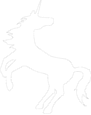
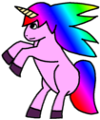
version 0.5

diff --git a/data/main.py b/data/main.py
@@ -17,12 +17,12 @@ def main(screen, player, screen_width, screen_height, player_rect):
 	life = pygame.image.load('life.png')
 	lifes = 3
 
-	life_one = (5, 50)
-	life_two = (35, 50)
-	life_three = (65, 50)
+	life_one = ((screen_width / 2 - life.get_size()[0]) - 10, 10)
+	life_two = ((screen_width / 2), 10)
+	life_three = ((screen_width / 2 + life.get_size()[0]) + 10, 10)
 
 	donut_event = pygame.USEREVENT+1
-	pygame.time.set_timer(donut_event, 2000)
+	pygame.time.set_timer(donut_event, 1000)
 
 	new_donuts = []
 
@@ -33,7 +33,6 @@ def main(screen, player, screen_width, screen_height, player_rect):
 	pygame.time.set_timer(draw_event, 15)
 
 	enemy_event = pygame.USEREVENT+4
-	pygame.time.set_timer(enemy_event, 2500)
 
 	new_enemys = []
 
@@ -42,17 +41,30 @@ def main(screen, player, screen_width, screen_height, player_rect):
 
 	game = 1
 
+	life_event = pygame.USEREVENT+6
+	pygame.time.set_timer(life_event, 1000)
+
+	lifes_falling = []
+	lifes_falling_new = []
+
+	move_life = pygame.USEREVENT+7
+	pygame.time.set_timer(move_life, 1)
+
+	enemy_speed = 1
+	donut_speed = 1
+
 	def gameover(score):
 		while True:
 			screen = pygame.display.set_mode((500,700))
+			font = pygame.font.Font(None, 20)
 			screen.fill(000000)
-			gameover_pos = [screen_width / 3, screen_height / 2]
-			gameover = font.render("GAME OVER", 1, (0xff, 0xff, 0xff))
+			gameover = font.render('GAME OVER', 1, (0xff, 0xff, 0xff))
+			gameover_pos = [screen_width / 2 - gameover.get_size()[0] / 2, 200]
 			final = 'Your final score is %d' % score
-			final_score_pos = [screen_width / 4, 100]
 			final_score = font.render(str(final), 1, (0xff, 0xff, 0xff))
-			screen.blit(final_score, final_score_pos)
+			final_score_pos = [screen_width / 2 - final_score.get_size()[0] / 2, 250]
 			screen.blit(gameover, gameover_pos)
+			screen.blit(final_score, final_score_pos)
 			pygame.display.update()
 
 			for event in pygame.event.get():
@@ -70,8 +82,7 @@ def main(screen, player, screen_width, screen_height, player_rect):
 
 			elif event.type == donut_event: # let the donuts appear
 
-				if len(new_donuts) < 4:
-					donut_x = random.randint(1,screen_width-donut.get_size()[1])
+					donut_x = random.randint(1,screen_width-donut.get_size()[0])
 					screen.blit(donut, (donut_x,0))
 					donut_position = (donut_x,0)
 					donuts.append([donut_x,0])
@@ -79,20 +90,52 @@ def main(screen, player, screen_width, screen_height, player_rect):
 			elif event.type == enemy_event:
 
 				if len(new_enemys) < 4:
-					enemy_x = random.randint(1,screen_width-enemy.get_size()[1])
+					enemy_x = random.randint(1,screen_width-enemy.get_size()[0])
 					screen.blit(enemy, (enemy_x, 0))
 					enemy_position = (enemy_x, 0)
 					enemys.append([enemy_x, 0])
+
+			elif event.type == life_event:
+
+				if lifes < 2:
+					life_x = random.randint(1,screen_width-life.get_size()[0])
+					screen.blit(life, (life_x, 0))
+					life_position = (life_x, 0)
+					lifes_falling.append([life_x, 0])
 
 			elif event.type == move_donuts:
 
 				if len(donuts) > 0:
 					new_donuts = []
 					for i in donuts:
-						i[1] = i[1] + 1
-						if i[0] >= player_rect[0] and i[0] <= player_rect[0] + player.get_size()[0] and i[1] >= screen_height - player.get_size()[1] - donut.get_size()[1]/2: # teste ob kollidiert
-							score = score + 10 # wenn ja score hoch
-							i[1] = screen_height # kollidiert = 1
+						i[1] = i[1] + donut_speed
+						if i[0] >= player_rect[0] - donut.get_size()[0]/2 and i[0] <= player_rect[0] + player.get_size()[0] and i[1] >= screen_height - player.get_size()[1] - donut.get_size()[1]/2:
+							score = score + 10
+
+							if score == 100:
+								level = 2
+								pygame.time.set_timer(life_event, 2500)
+								pygame.time.set_timer(donut_event, 1500)
+								pygame.time.set_timer(enemy_event, 2500)
+							elif score == 200:
+								level = 3
+								enemy_speed = 2
+								pygame.time.set_timer(enemy_event, 2000)
+								pygame.time.set_timer(life_event, 5000)
+							elif score == 500:
+								level = 4
+								enemy_speed = 3
+								donut_speed = 2
+								pygame.time.set_timer(enemy_event, 1500)
+								pygame.time.set_timer(life_event, 7000)
+							elif score == 1000:
+								level = 5
+								pygame.time.set_timer(donut_event, 2000)
+							elif score == 2000:
+								level = 6
+								pygame.time.set_timer(enemy_event, 1000)
+
+							i[1] = screen_height
 						elif i[1] < screen_height - donut.get_size()[1]:
 								new_donuts.append([i[0], i[1]])
 				donuts = new_donuts
@@ -102,13 +145,27 @@ def main(screen, player, screen_width, screen_height, player_rect):
 				if len(enemys) > 0:
 					new_enemys = []
 					for i in enemys:
-						i[1] = i[1] + 2
-						if i[0] >= player_rect[0] and i[0] <= player_rect[0] + player.get_size()[0] and i[1] >= screen_height - player.get_size()[1] - enemy.get_size()[1]:
+						i[1] = i[1] + enemy_speed
+						if i[0] >= player_rect[0] - enemy.get_size()[0]/2 and i[0] <= player_rect[0] + player.get_size()[0] and i[1] >= screen_height - player.get_size()[1] - enemy.get_size()[1]:
 							lifes = lifes - 1
 							i[1] = screen_height
 						elif i[1] < screen_height - enemy.get_size()[1]:
 							new_enemys.append([i[0], i[1]])
 				enemys = new_enemys
+
+			elif event.type == move_life:
+
+				if len(lifes_falling) > 0:
+					lifes_falling_new = []
+					for i in lifes_falling:
+						i[1] = i[1] + 1
+						if i[0] >= player_rect[0] - life.get_size()[0]/2 and i[0] <= player_rect[0] + player.get_size()[0] and i[1] >= screen_height - player.get_size()[1] - life.get_size()[1]:
+							if lifes < 3:
+								lifes = lifes + 1
+							i[1] = screen_height
+						elif i[1] < screen_height - life.get_size()[1]:
+							lifes_falling_new.append([i[0], i[1]])
+					lifes_falling = lifes_falling_new
 
 			elif event.type == KEYDOWN: # handling keydown events
 
@@ -129,13 +186,17 @@ def main(screen, player, screen_width, screen_height, player_rect):
 				screen.fill(000000)
 
 				show_score = font.render(str(score), 1, (0xff, 0xff, 0xff)) # rendering the score
-				show_level = font.render(str(level), 1, (0xff, 0xff, 0xff)) # rendering the level
+				leveltext = 'LEVEL: %d' % level
+				show_level = font.render(str(leveltext), 1, (0xff, 0xff, 0xff)) # rendering the level
 
 				for i in new_donuts:
 					screen.blit(donut, (i[0], i[1]))
 
 				for i in new_enemys:
 					screen.blit(enemy, (i[0], i[1]))
+
+				for i in lifes_falling:
+					screen.blit(life, (i[0], i[1]))
 
 				if lifes == 3:
 					screen.blit(life, life_one)

diff --git a/README.md b/README.md
@@ -2,22 +2,27 @@ unicorn
 =======
 unicorn is a little game by koex, developed in python using pygame.
 
-unicorn version 0.4.1 (alpha)
+Please report bugs.
+
+unicorn version 0.5 (beta)
 -------
-There is a unicorn, it can move to the right and to the left (left key, right key). Donuts and enemys are falling down. Eat the donuts, but don't collide with enemys! You have three lifes, each time you collide with an enemy, you lose one.
+There is a unicorn, you can move it to the right and to the left (left key, right key). First, there are donuts falling down. Eat them. 
+At some point, knives will start appearing. Don't collide with them! You have three lifes, each time you collide with a knife, you lose one.
+If you have less than two lifes, you can try to catch one.
+Each time you level up, the game gets harder.
 
 changelog
 -------
-- you can die
-- you do have enemys
-- with dying you finally have a way to quit this game
-
-bugfix
--------
-- now showing score on gameover screen
+- new graphics
+- you can level up now
+- game gets harder
 
 older versions
 =======
+
+unicorn version 0.4.1 (alpha)
+-------
+There is a unicorn, it can move to the right and to the left (left key, right key). Donuts and enemys are falling down. Eat the donuts, but don't collide with enemys! You have three lifes, each time you collide with an enemy, you lose one.
 
 unicorn version 0.3.1
 -------
